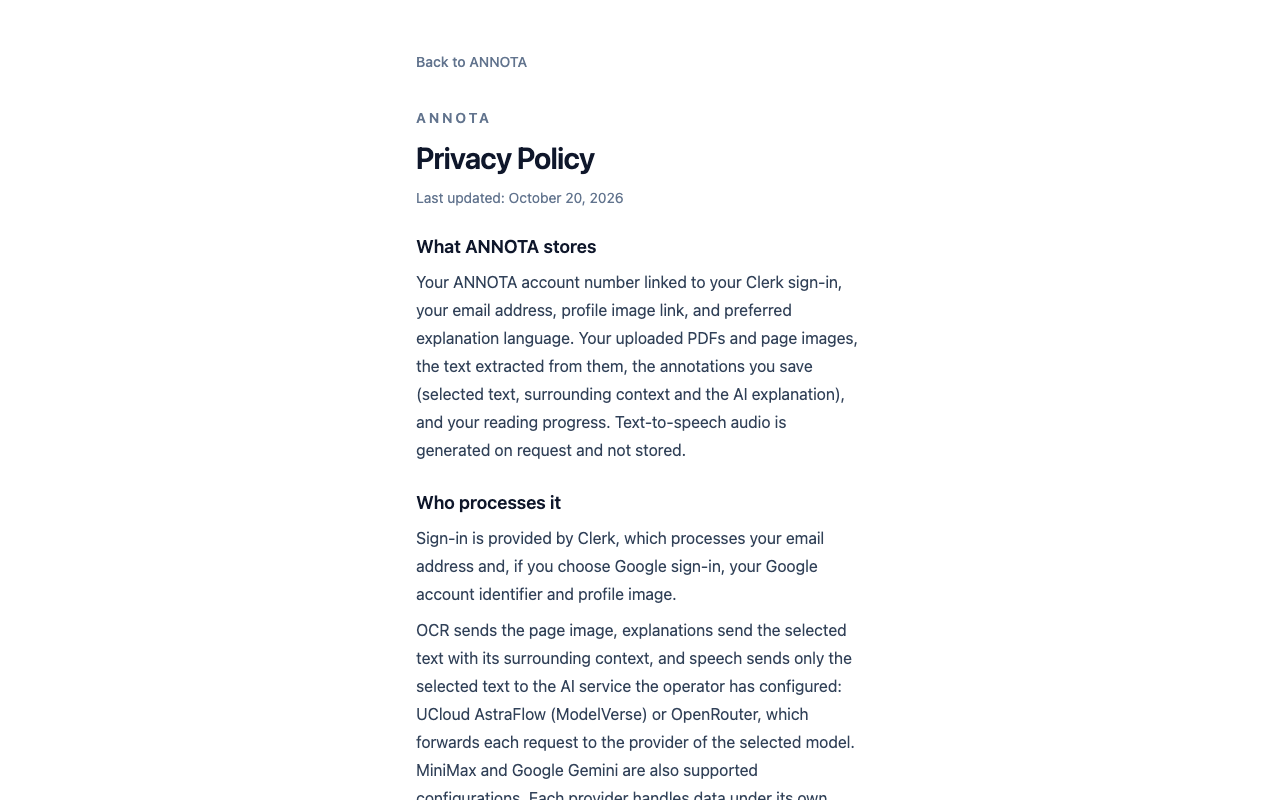
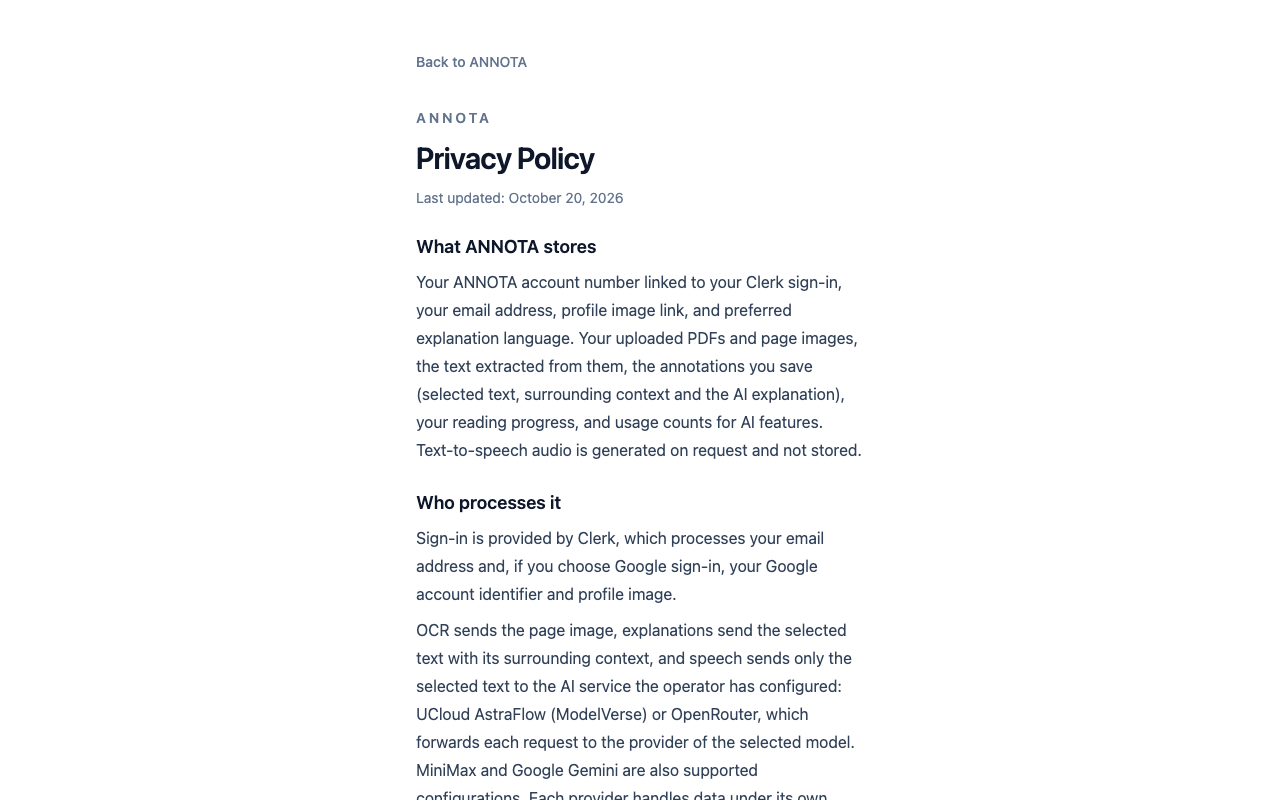
docs: disclose AI usage counts on privacy page after #42 (#41)

Changed region(s): [[0.3125, 0.5, 0.6562, 0.5938]]

diff --git a/web/src/pages/LegalPage.tsx b/web/src/pages/LegalPage.tsx
@@ -40,8 +40,8 @@ export default function LegalPage({ kind }: LegalPageProps) {
                 Your ANNOTA account number linked to your Clerk sign-in, your email address, profile
                 image link, and preferred explanation language. Your uploaded PDFs and page images, the
                 text extracted from them, the annotations you save (selected text, surrounding context
-                and the AI explanation), and your reading progress. Text-to-speech audio is generated
-                on request and not stored.
+                and the AI explanation), your reading progress, and usage counts for AI features.
+                Text-to-speech audio is generated on request and not stored.
               </p>
             </PolicySection>
             <PolicySection title="Who processes it">

diff --git a/web/src/pages/__tests__/LegalPage.test.tsx b/web/src/pages/__tests__/LegalPage.test.tsx
@@ -11,6 +11,7 @@ describe('LegalPage', () => {
     const processing = screen.getByText(/UCloud AstraFlow \(ModelVerse\) or\s+OpenRouter/i)
     expect(processing).toHaveTextContent(/does not promise zero retention or a particular processing region/i)
     expect(screen.queryByText(/stores .*pronunciation requests/i)).not.toBeInTheDocument()
+    expect(screen.getByText(/usage counts for AI features/i)).toHaveTextContent(/audio is generated\s+on request and not stored/i)
   })
 
   it('explains deletion, retained annotations and backups', () => {
